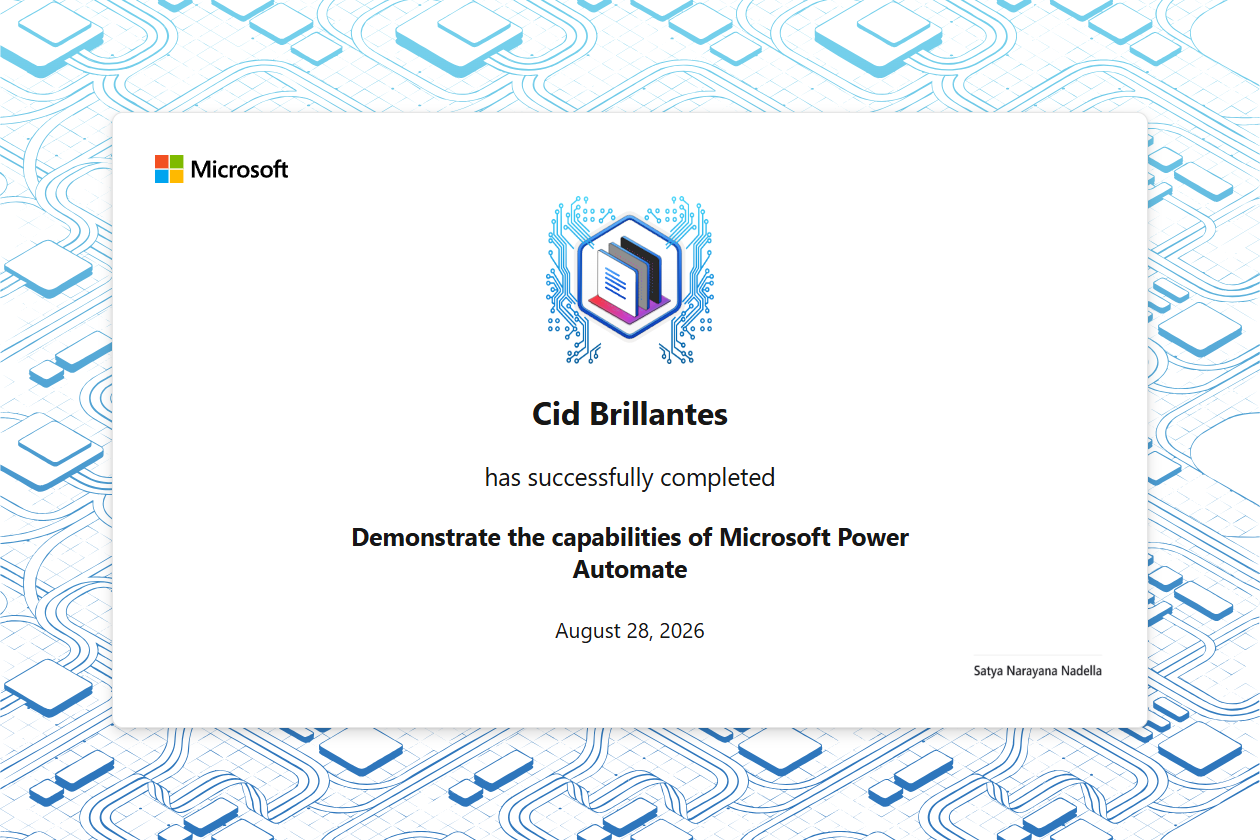
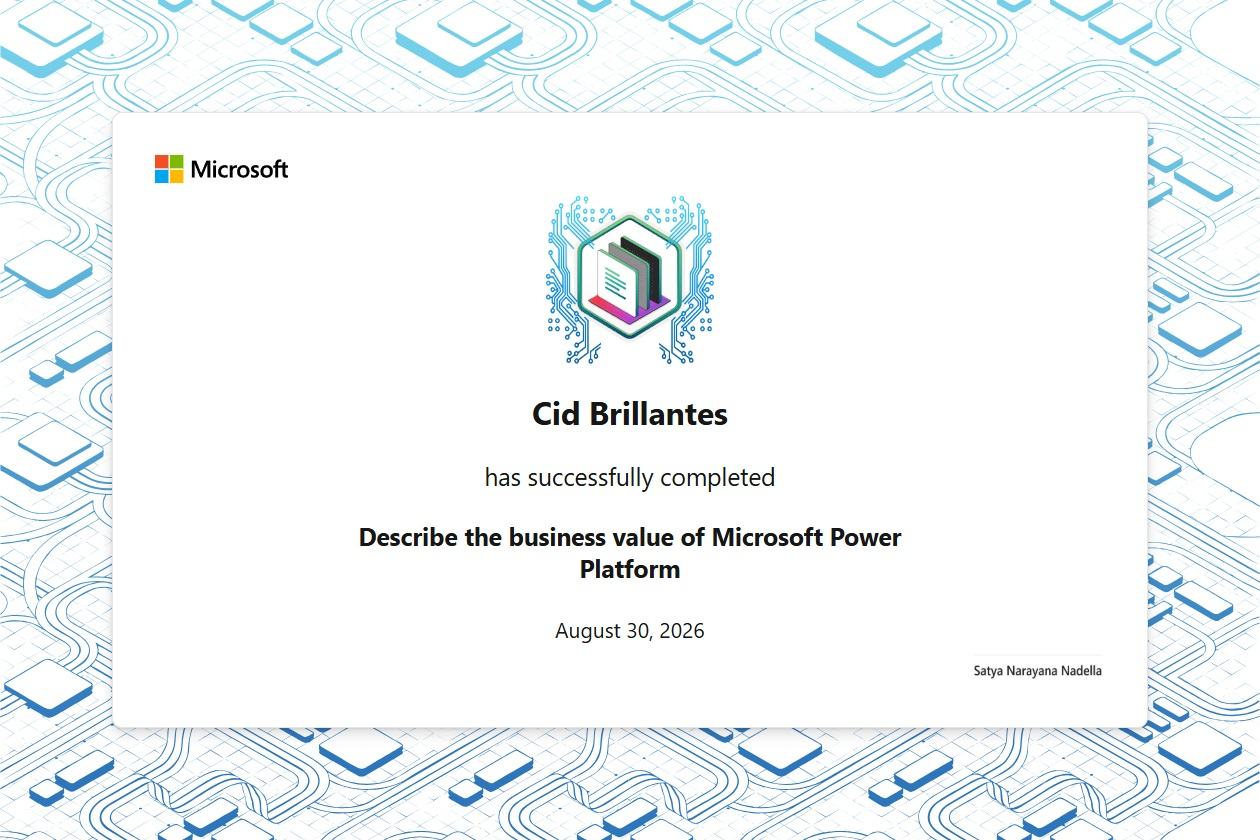
Certifications Section Update
- Fixed a minor Vite deployment bug
- Changed the page title and added a page description
- Added new Microsoft Learn certifications

diff --git a/src/data/certifications.tsx b/src/data/certifications.tsx
@@ -73,11 +73,11 @@ export const certifications = [
   },
   {
     id: 9,
-    title: "Demonstrate the capabilities of Microsoft Power Automate",
+    title: "Describe the business value of Microsoft Power Platform",
     organization: "Microsoft Learn",
     issued: "Aug 2026",
     description:
-      "Developed foundational knowledge of Microsoft Power Automate, including how to create, modify, test, and monitor cloud flows. Learned how Power Automate can be used to automate business processes and workflows with minimal code",
+      "Developed foundational knowledge of Microsoft Power Platform and its core products, exploring their capabilities and how they support organizations in analyzing data, building solutions, automating processes, and improving business operations",
     image: "/certifications/microsoft-learn/3.png",
   },
   {
@@ -91,6 +91,24 @@ export const certifications = [
   },
   {
     id: 11,
+    title: "Demonstrate the capabilities of Microsoft Power Automate",
+    organization: "Microsoft Learn",
+    issued: "Aug 2026",
+    description:
+      "Developed foundational knowledge of Microsoft Power Automate, including how to create, modify, test, and monitor cloud flows. Learned how Power Automate can be used to automate business processes and workflows with minimal code",
+    image: "/certifications/microsoft-learn/5.png",
+  },
+  {
+    id: 12,
+    title: "Demonstrate the capabilities of Microsoft Power Pages",
+    organization: "Microsoft Learn",
+    issued: "Aug 2026",
+    description:
+      "Developed foundational knowledge of Microsoft Power Pages, including building, customizing, and securing websites. Learned how Power Pages enables the creation of secure, externally accessible business websites with low-code development tools",
+    image: "/certifications/microsoft-learn/6.png",
+  },
+  {
+    id: 13,
     title: "Introduction to Amazon Athena",
     organization: "AWS Skill Builder",
     issued: "May 2026",
@@ -99,7 +117,7 @@ export const certifications = [
     image: "/certifications/aws-skill-builder/1.png",
   },
   {
-    id: 12,
+    id: 14,
     title: "Amazon Redshift Introduction",
     organization: "AWS Skill Builder",
     issued: "May 2026",
@@ -108,7 +126,7 @@ export const certifications = [
     image: "/certifications/aws-skill-builder/2.png",
   },
   {
-    id: 13,
+    id: 15,
     title: "AWS Glue Getting Started",
     organization: "AWS Skill Builder",
     issued: "May 2026",
@@ -117,7 +135,7 @@ export const certifications = [
     image: "/certifications/aws-skill-builder/3.png",
   },
   {
-    id: 14,
+    id: 16,
     title: "Amazon S3 Getting Started",
     organization: "AWS Skill Builder",
     issued: "Apr 2026",
@@ -126,7 +144,7 @@ export const certifications = [
     image: "/certifications/aws-skill-builder/4.png",
   },
   {
-    id: 15,
+    id: 17,
     title: "AWS Identity and Access Management - Architecture and Terminology",
     organization: "AWS Skill Builder",
     issued: "Apr 2026",
@@ -135,7 +153,7 @@ export const certifications = [
     image: "/certifications/aws-skill-builder/5.png",
   },
   {
-    id: 16,
+    id: 18,
     title: "Introduction to AWS Identity and Access Management (IAM)",
     organization: "AWS Skill Builder",
     issued: "Apr 2026",
@@ -144,7 +162,7 @@ export const certifications = [
     image: "/certifications/aws-skill-builder/6.png",
   },
   {
-    id: 17,
+    id: 19,
     title: "Prepare Data for ML APIs on Google Cloud",
     organization: "Google Skills",
     issued: "Mar 2025",
@@ -153,7 +171,7 @@ export const certifications = [
     image: "/certifications/google-skills/1.png",
   },
   {
-    id: 18,
+    id: 20,
     title: "Build a Secure Google Cloud Network",
     organization: "Google Skills",
     issued: "Mar 2025",
@@ -162,7 +180,7 @@ export const certifications = [
     image: "/certifications/google-skills/2.png",
   },
   {
-    id: 19,
+    id: 21,
     title: "Set Up and App Dev Environment on Google Cloud",
     organization: "Google Skills",
     issued: "Mar 2025",
@@ -171,7 +189,7 @@ export const certifications = [
     image: "/certifications/google-skills/3.png",
   },
   {
-    id: 20,
+    id: 22,
     title: "Implement Load Balancing on Compute Engine",
     organization: "Google Skills",
     issued: "Mar 2025",
@@ -180,7 +198,7 @@ export const certifications = [
     image: "/certifications/google-skills/4.png",
   },
   {
-    id: 21,
+    id: 23,
     title: "Google Cloud Computing Foundations: Data, ML, and AI in Google Cloud",
     organization: "Google Skills",
     issued: "Feb 2025",
@@ -189,7 +207,7 @@ export const certifications = [
     image: "/certifications/google-skills/5.png",
   },
   {
-    id: 22,
+    id: 24,
     title: "Google Cloud Computing Foundations: Networking and Security in Google Cloud",
     organization: "Google Skills",
     issued: "Feb 2025",
@@ -198,7 +216,7 @@ export const certifications = [
     image: "/certifications/google-skills/6.png",
   },
   {
-    id: 23,
+    id: 25,
     title: "Google Cloud Computing Foundations: Infrastructure in Google Cloud",
     organization: "Google Skills",
     issued: "Feb 2025",
@@ -207,7 +225,7 @@ export const certifications = [
     image: "/certifications/google-skills/7.png",
   },
   {
-    id: 24,
+    id: 26,
     title: "Google Cloud Computing Foundations: Cloud Computing Fundamentals",
     organization: "Google Skills",
     issued: "Feb 2025",
@@ -216,7 +234,7 @@ export const certifications = [
     image: "/certifications/google-skills/8.png",
   },
   {
-    id: 25,
+    id: 27,
     title: "CodeChum Python Course",
     organization: "CodeChum",
     issued: "Nov 2022",

diff --git a/index.html b/index.html
@@ -4,7 +4,11 @@
     <meta charset="UTF-8" />
     <link rel="icon" type="image/svg+xml" href="/favicon.svg" />
     <meta name="viewport" content="width=device-width, initial-scale=1.0" />
-    <title>Cid Brillantes</title>
+    <title>Cid Brillantes — Web Portfolio</title>
+    <meta
+      name="description"
+      content="Discover my skills, projects, and experience as an aspiring Information Technology professional through this web portfolio"
+    />
   </head>
   <body>
     <div id="root"></div>
